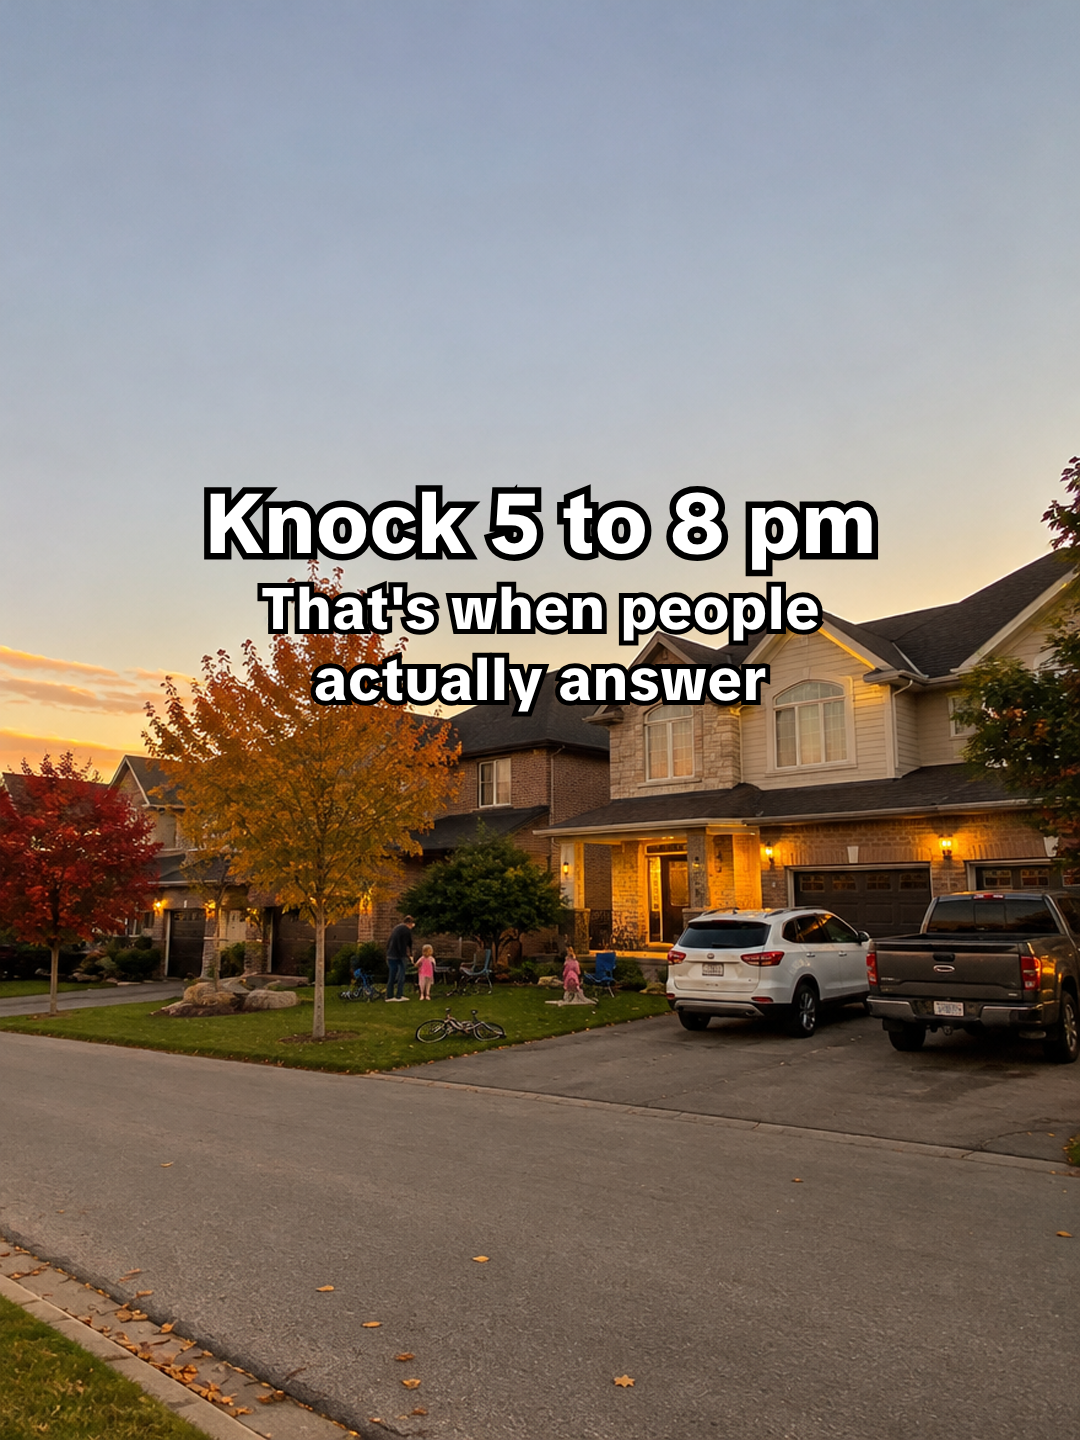
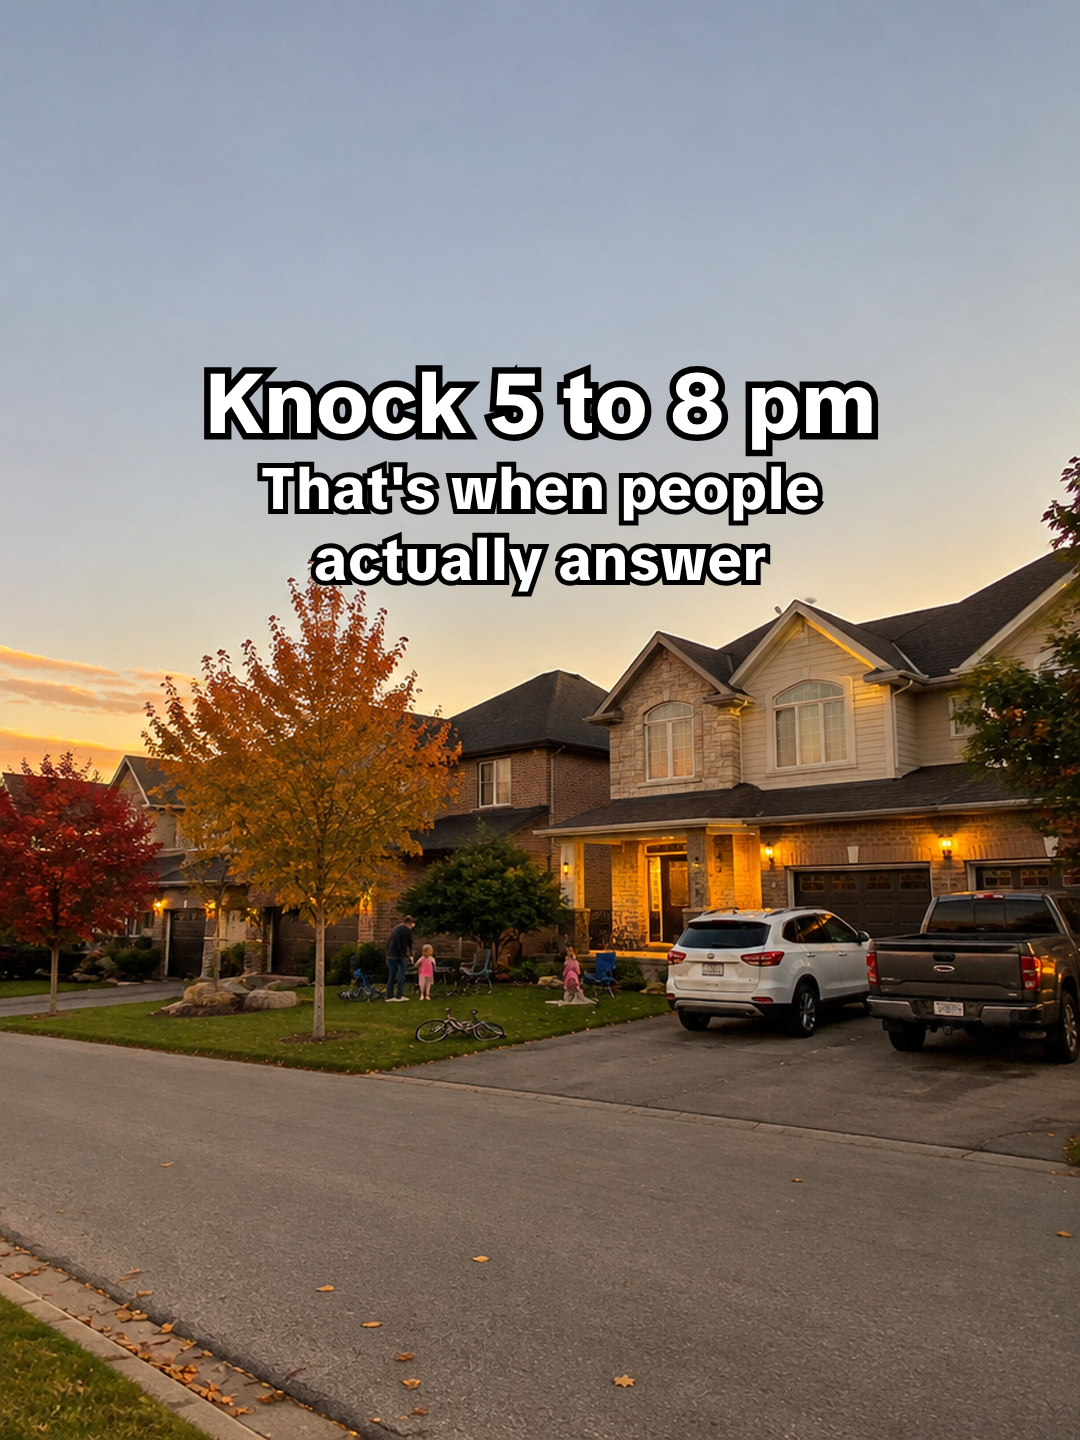
more doors carousel: headlines higher
Claude-Session: https://claude.ai/code/session_01EVxDagMumu1dzbEEzpRUBn

Changed region(s): [[0.1833, 0.25, 0.825, 0.5]]

diff --git a/video_research/content_kit/edits/more_doors_slides/tool2.html b/video_research/content_kit/edits/more_doors_slides/tool2.html
@@ -3,7 +3,7 @@
 html,body{margin:0;width:1080px;height:1440px;overflow:hidden;background:#000}
 img.bg{position:absolute;inset:0;width:1080px;height:1440px;object-fit:cover}
 /* TikTok default "Classic" text: TikTok Sans, white fill, black outline, no background */
-.tt{position:absolute;left:36px;right:36px;top:480px;text-align:center;color:#fff;font-family:TT;font-weight:800;paint-order:stroke fill}
+.tt{position:absolute;left:36px;right:36px;top:360px;text-align:center;color:#fff;font-family:TT;font-weight:800;paint-order:stroke fill}
 .tt h1{margin:0 0 10px;font-size:84px;line-height:1.04;letter-spacing:-.5px;-webkit-text-stroke:13px #000;paint-order:stroke fill}
 .tt p{margin:6px 0 0;font-size:58px;line-height:1.12;-webkit-text-stroke:10px #000;paint-order:stroke fill}
 #cta{position:absolute;left:0;right:0;top:50%;transform:translateY(-50%);text-align:center}
